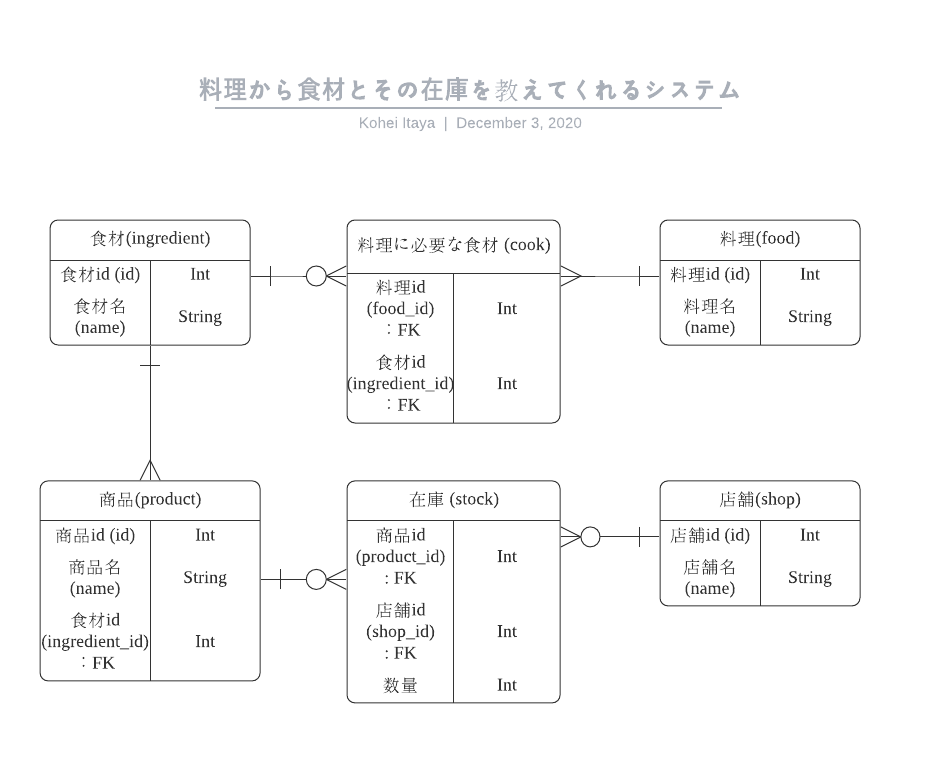
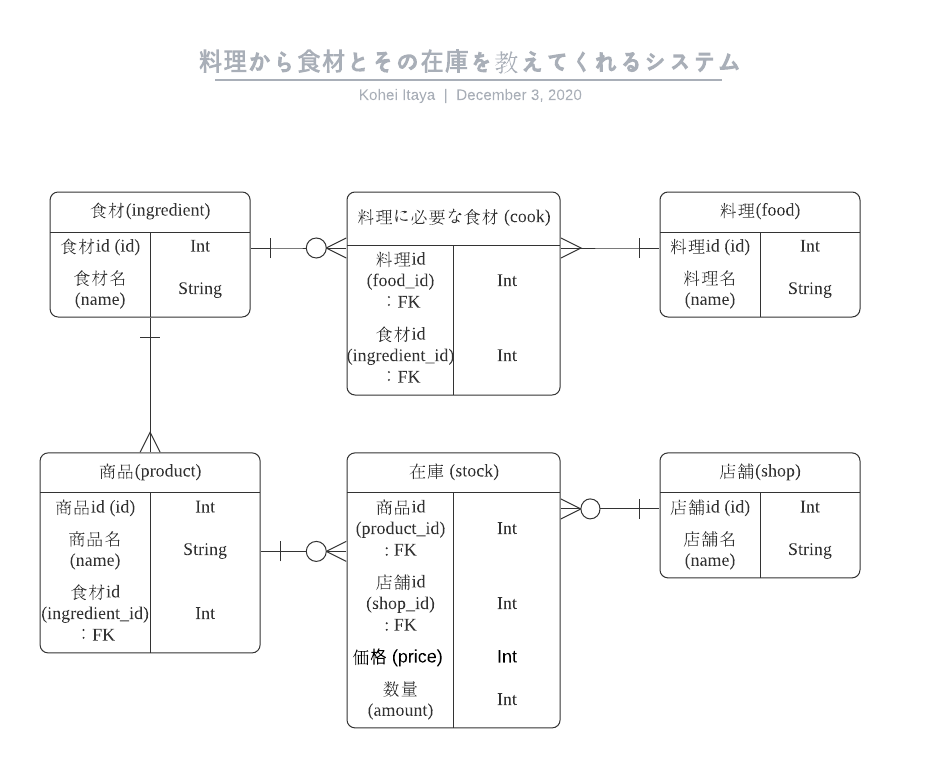
'データベースについて、各テーブルに対応するモデルをつくりました。また、価格を入れ忘れてたので直しました。'

diff --git a/model/stock.py b/model/stock.py
@@ -1,0 +1,30 @@
+from database import db
+from model.product import Product
+from model.shop import Shop
+
+class Stock(db.Model):
+    __tablename__ = "stock"
+    __table_args__ = (db.UniqueConstraint("product_id", "shop_id"),{})  # id組み合わせのユニーク制約
+    id = db.Column(db.Integer, primary_key=True, autoincrement=True)  # 在庫id, 主キー
+    product_id = db.Column(db.Integer, db.ForeignKey(Product.id))  # 商品id, 外部キー
+    shop_id = db.Column(db.Integer, db.ForeignKey(Shop.id))   # 店舗id, 外部キー
+    price = db.Column(db.Integer, nullable=False)  # 価格
+    amount = db.Column(db.Integer, nullable=False)          # 在庫数量
+
+    def __init__(self, productId, shopId, amount):
+        self.product_id = productId
+        self.shop_id = shopId
+        self.amount = amount
+
+    # 全ての在庫を取得
+    @staticmethod
+    def getAllStocks():
+        stocks = db.session.query(Stock).all()
+        return stocks
+
+    # 在庫を追加
+    @staticmethod
+    def setStock(productId, shopId, amount):
+        record = Stock(productId=productId, shopId=shopId, amount=amount)
+        db.session.add(record)
+        db.session.commit()

diff --git a/model/cook.py b/model/cook.py
@@ -1,0 +1,27 @@
+from database import db
+from model.food import Food
+from model.ingredient import Ingredient
+
+class Cook(db.Model):
+    __tablename__ = "cook"
+    __table_args__ = (db.UniqueConstraint("food_id", "ingredient_id"),{})  # id組み合わせのユニーク制約
+    id = db.Column(db.Integer, primary_key=True, autoincrement=True)  # 料理と食材の組み合わせid, 主キー
+    food_id = db.Column(db.Integer, db.ForeignKey(Food.id))    # 料理id, 外部キー
+    ingredient_id = db.Column(db.Integer, db.ForeignKey(Ingredient.id))   # 食材id, 外部キー
+
+    def __init__(self, foodId, ingredientId):
+        self.food_id = foodId
+        self.ingredient_id = ingredientId
+
+    # 全ての料理と食材の組み合わせを取得
+    @staticmethod
+    def getAllCooks():
+        cooks = db.session.query(Cook).all()
+        return cooks
+
+    # 料理に必要な食材を追加
+    @staticmethod
+    def setCook(foodId, ingredientId):
+        record = Cook(foodId=foodId, ingredientId=ingredientId)
+        db.session.add(record)
+        db.session.commit()

diff --git a/app.py b/app.py
@@ -1,16 +1,19 @@
 from flask import Flask, send_from_directory,render_template
 import os
-from flask_sqlalchemy import SQLAlchemy
-from sqlalchemy import Column, Integer, Unicode, UnicodeText, ForeignKey
-from sqlalchemy.orm import relationship, backref
-from datetime import datetime
-from database import db
-from models import Food, Ingredient
+from database import db, db_init
+from model.product import Product
+from model.cook import Cook
+from model.food import Food
+from model.ingredient import Ingredient
+from model.product import Product
+from model.shop import Shop
+from model.stock import Stock
+
+
 app = Flask(__name__)
 
 app.config.from_object('dbConfig.DbConfig')
-db.init_app(app)
-
+db_init(app)
 
 @app.route('/')
 def hello_world():
@@ -33,8 +36,9 @@ def favicon():
 
 @app.route('/init')
 def initdatabase():
-    for v in range(1,10):
-        Ingredient.setIngredient("Ingredient" + str(v))
+    # Food.setFood("カレー")
+    # Food.setFood("肉じゃが")
+    # Food.setFood("ハンバーグ")
     return "done"
 
 if __name__ == '__main__':

diff --git a/model/product.py b/model/product.py
@@ -1,0 +1,25 @@
+from database import db
+from model.ingredient import Ingredient
+
+class Product(db.Model):
+    __tablename__ = "product"
+    id = db.Column(db.Integer, primary_key=True, autoincrement=True)    # 商品id,主キー
+    name = db.Column(db.String(128), nullable=False)  # 商品名
+    ingredient_id = db.Column(db.Integer, db.ForeignKey(Ingredient.id))   # 食材id, 外部キー
+
+    def __init__(self, name, ingredientId):
+        self.name = name
+        self.ingredient_id = ingredientId
+
+    # 全ての商品を取得
+    @staticmethod
+    def getAllProducts():
+        products = db.session.query(Product).all()
+        return products
+
+    # 商品を追加
+    @staticmethod
+    def setProduct(name, ingredientId):
+        record = Product(name=name, ingredientId=ingredientId)
+        db.session.add(record)
+        db.session.commit()

diff --git a/model/ingredient.py b/model/ingredient.py
@@ -1,0 +1,22 @@
+from database import db
+
+class Ingredient(db.Model):
+    __tablename__ = "ingredient"
+    id = db.Column(db.Integer, primary_key=True, autoincrement=True)    # 食材id, 主キー
+    name = db.Column(db.String(128), nullable=False)                    # 食材名
+
+    def __init__(self, name):
+        self.name = name
+
+    # 全ての食材を取得
+    @staticmethod
+    def getAllIngredients():
+        ingredients = db.session.query(Ingredient).all()
+        return ingredients
+
+    # 食材を追加
+    @staticmethod
+    def setIngredient(name):
+        record = Ingredient(name=name)
+        db.session.add(record)
+        db.session.commit()

diff --git a/model/shop.py b/model/shop.py
@@ -1,0 +1,23 @@
+from database import db
+
+
+class Shop(db.Model):
+    __tablename__ = "shop"
+    id = db.Column(db.Integer, primary_key=True, autoincrement=True)    # 店舗id,主キー
+    name = db.Column(db.String(128), nullable=False)                    # 店舗名
+
+    def __init__(self, name):
+        self.name = name
+
+    # 全ての店舗を取得
+    @staticmethod
+    def getAllShops():
+        shops = db.session.query(Shop).all()
+        return shops
+
+    # 店舗を追加
+    @staticmethod
+    def setShop(name):
+        record = Shop(name = name)
+        db.session.add(record)
+        db.session.commit()

diff --git a/model/food.py b/model/food.py
@@ -1,0 +1,22 @@
+from database import db
+
+class Food(db.Model):
+    __tablename__ = "food"
+    id = db.Column(db.Integer, primary_key=True, autoincrement=True)    # 料理id,主キー
+    name = db.Column(db.String(128), nullable=False)                    # 料理名
+
+    def __init__(self, name):
+        self.name = name
+
+    # 全ての料理を取得
+    @staticmethod
+    def getAllFoods():
+        foods = db.session.query(Food).all()
+        return foods
+
+    # 料理を追加
+    @staticmethod
+    def setFood(name):
+        record = Food(name = name)
+        db.session.add(record)
+        db.session.commit()

diff --git a/database.py b/database.py
@@ -1,7 +1,10 @@
 from flask_sqlalchemy import SQLAlchemy
 
+
 db = SQLAlchemy()
 
-
-def init_db(app):
+def db_init(app):
     db.init_app(app)
+    with app.app_context():
+        db.create_all()
+
